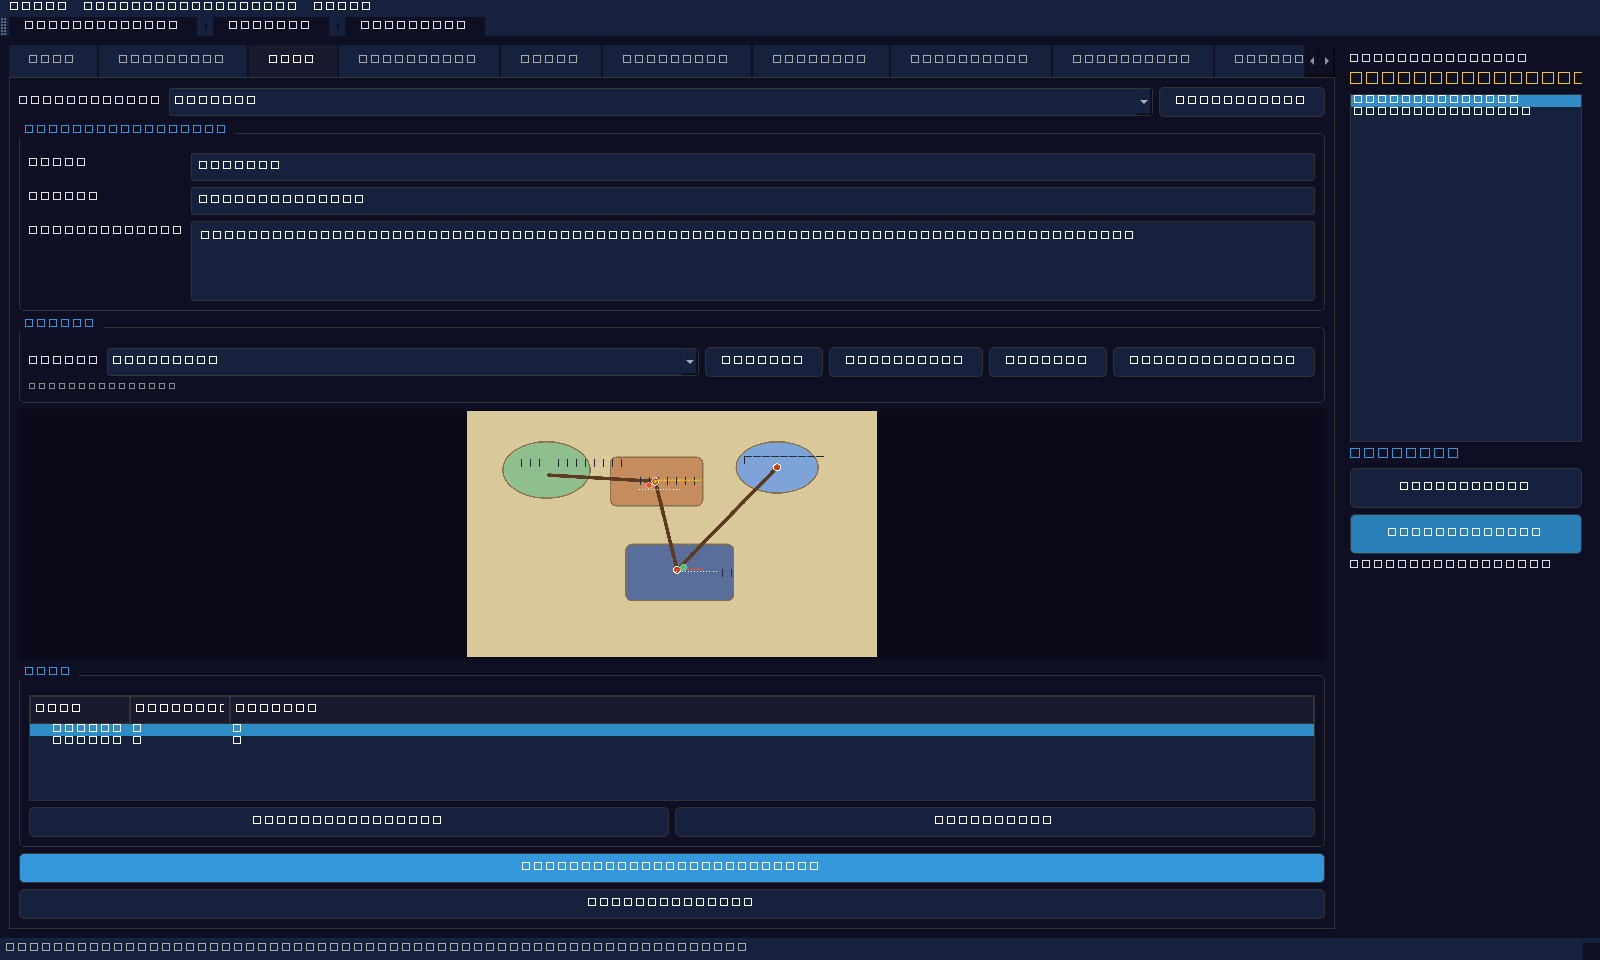
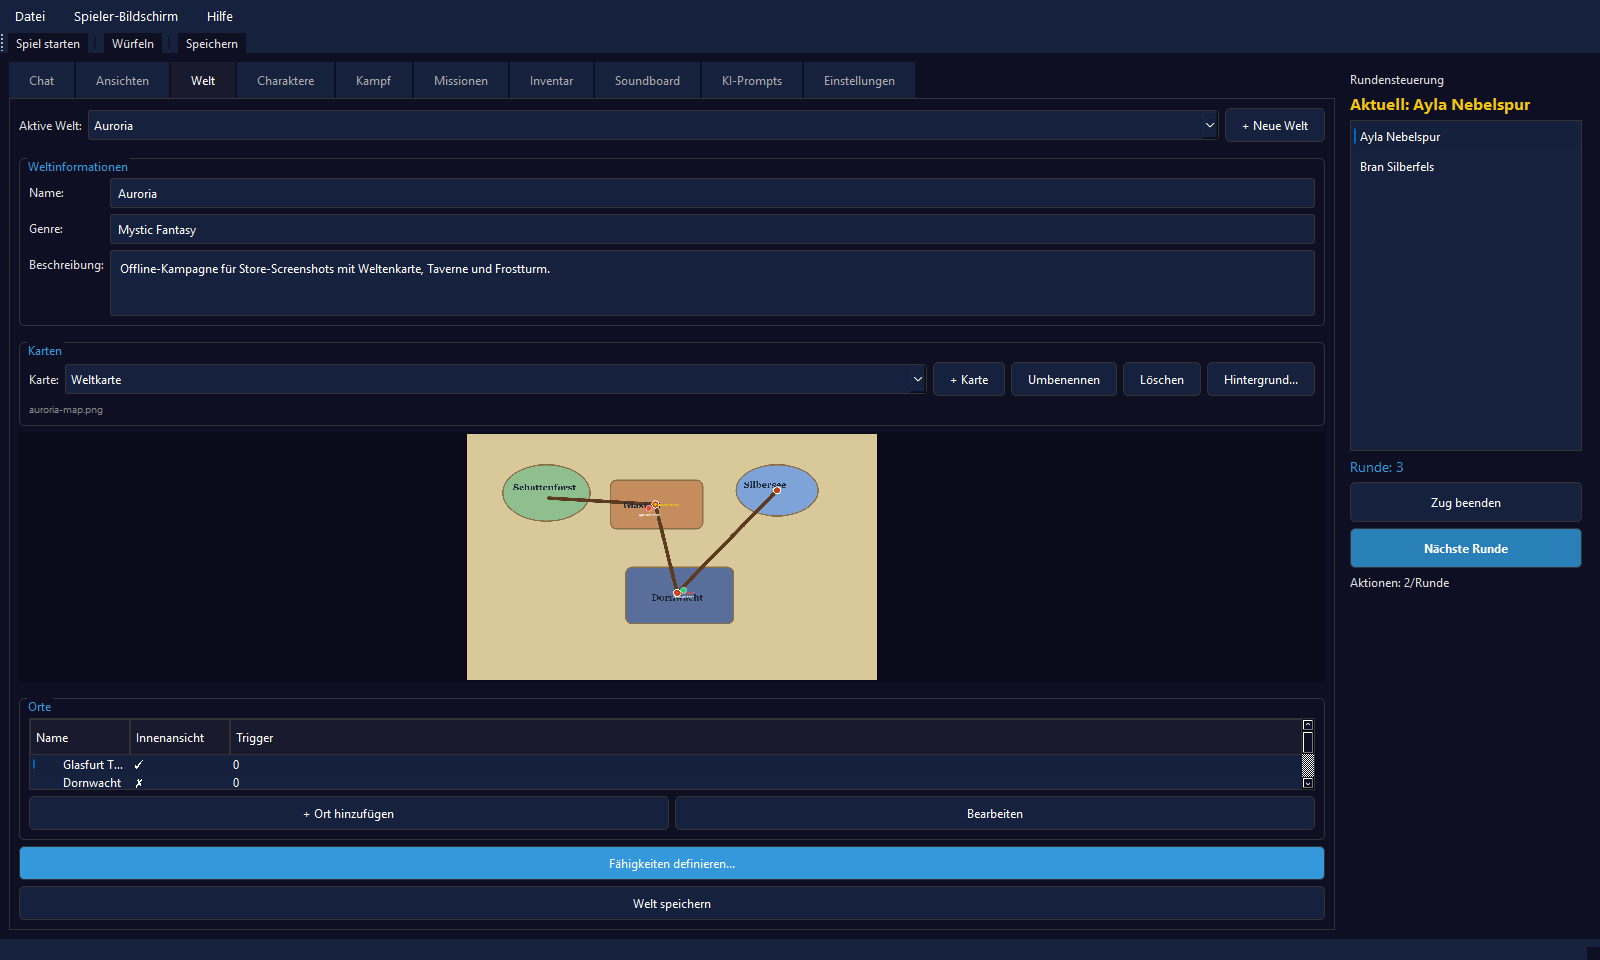
fix: render Store screenshots with native Qt glyphs

diff --git a/generate_store_screenshots.py b/generate_store_screenshots.py
@@ -1,5 +1,6 @@
 from __future__ import annotations
 
+import contextlib
 import importlib
 import json
 import math
@@ -13,7 +14,6 @@ from dataclasses import dataclass
 from pathlib import Path
 from typing import Any
 
-os.environ.setdefault("QT_QPA_PLATFORM", "offscreen")
 os.environ.setdefault("QT_SCALE_FACTOR", "1")
 
 PROJECT_ROOT = Path(__file__).resolve().parent
@@ -21,7 +21,7 @@ if str(PROJECT_ROOT) not in sys.path:
     sys.path.insert(0, str(PROJECT_ROOT))
 
 from PySide6.QtCore import Qt
-from PySide6.QtGui import QColor, QFont, QImage, QPainter, QPen
+from PySide6.QtGui import QColor, QFont, QImage, QPainter, QPen, QPixmap
 from PySide6.QtWidgets import QApplication
 
 
@@ -65,6 +65,53 @@ def _process_events(app: QApplication, duration: float = 0.08) -> None:
     while time.monotonic() < deadline:
         app.processEvents()
         time.sleep(0.005)
+
+
+@contextlib.contextmanager
+def _native_qt_platform():
+    """Use native Qt rendering for Store assets while keeping windows invisible.
+
+    On Windows the offscreen plugin can render every glyph as the same missing
+    glyph box (Tofu). ``Qt.WA_DontShowOnScreen`` keeps the native window out of
+    view without sacrificing its font renderer.
+    """
+    previous = os.environ.get("QT_QPA_PLATFORM")
+    if previous == "offscreen" and QApplication.instance() is None:
+        del os.environ["QT_QPA_PLATFORM"]
+    try:
+        yield
+    finally:
+        if previous is not None:
+            os.environ["QT_QPA_PLATFORM"] = previous
+
+
+def _glyph_rendering_works(app: QApplication) -> bool:
+    """Detect a missing-glyph renderer before writing a Store screenshot set."""
+    font = app.font()
+    probes = ("A", "B", "g", "8", "M")
+
+    def render(char: str) -> bytes:
+        pixmap = QPixmap(48, 48)
+        pixmap.fill(Qt.white)
+        painter = QPainter(pixmap)
+        painter.setFont(font)
+        painter.setPen(Qt.black)
+        painter.drawText(pixmap.rect(), Qt.AlignCenter, char)
+        painter.end()
+        return bytes(pixmap.toImage().constBits())
+
+    rendered = [render(char) for char in probes]
+    blank = render(" ")
+    return len(set(rendered)) >= 3 and sum(image != blank for image in rendered) >= len(probes) - 1
+
+
+def _assert_store_font_rendering(app: QApplication) -> None:
+    if app.platformName() == "offscreen":
+        raise RuntimeError(
+            "Qt läuft unter offscreen; Store-Screenshots würden unlesbare Kästchen enthalten."
+        )
+    if not _glyph_rendering_works(app):
+        raise RuntimeError("Font-Rendering-Selbsttest fehlgeschlagen; Screenshot-Erzeugung abgebrochen.")
 
 
 def _configure_runtime_paths(constants: Any, runtime_root: Path) -> None:
@@ -432,6 +479,10 @@ def _seed_demo_state(app: QApplication, modules: RuntimeModules) -> DemoContext:
 
 
 def _save_widget(widget: Any, target: Path, app: QApplication) -> None:
+    widget.setAttribute(Qt.WA_DontShowOnScreen, True)
+    status_bar = getattr(widget, "statusBar", None)
+    if callable(status_bar):
+        status_bar().clearMessage()
     widget.show()
     widget.raise_()
     widget.activateWindow()
@@ -578,8 +629,10 @@ def generate_store_screenshots(output_dir: str | Path) -> dict[str, Any]:
     output_dir = Path(output_dir)
     output_dir.mkdir(parents=True, exist_ok=True)
 
-    app = QApplication.instance() or QApplication([])
+    with _native_qt_platform():
+        app = QApplication.instance() or QApplication([])
     app.setApplicationName("RPX Pro Store Screenshots")
+    _assert_store_font_rendering(app)
 
     with tempfile.TemporaryDirectory(prefix="rpx-store-shots-") as runtime:
         modules = _load_runtime_modules(Path(runtime))

diff --git a/tests/test_store_screenshots.py b/tests/test_store_screenshots.py
@@ -1,15 +1,36 @@
 import json
+import os
 import tempfile
 import unittest
 from pathlib import Path
 
 from PySide6.QtGui import QImage
+from PySide6.QtWidgets import QApplication
 
-from generate_store_screenshots import SCREENSHOT_FILES, SUMMARY_FILE, generate_store_screenshots
+from generate_store_screenshots import (
+    SCREENSHOT_FILES,
+    SUMMARY_FILE,
+    _assert_store_font_rendering,
+    generate_store_screenshots,
+)
 
 
 class StoreScreenshotGenerationTests(unittest.TestCase):
+    def test_generator_source_uses_native_glyph_rendering(self):
+        source = (Path(__file__).parents[1] / "generate_store_screenshots.py").read_text(encoding="utf-8")
+        self.assertIn("WA_DontShowOnScreen", source)
+        self.assertNotIn('setdefault("QT_QPA_PLATFORM", "offscreen")', source)
+
+    def test_offscreen_qt_is_rejected_before_screenshots_are_written(self):
+        app = QApplication.instance()
+        if app is None or app.platformName() != "offscreen":
+            self.skipTest("kein offscreen-Qt-Kontext")
+        with self.assertRaises(RuntimeError):
+            _assert_store_font_rendering(app)
+
     def test_generator_writes_all_expected_pngs_and_summary(self):
+        if os.environ.get("QT_QPA_PLATFORM") == "offscreen":
+            self.skipTest("native Font-Renderings sind unter offscreen nicht prüfbar")
         with tempfile.TemporaryDirectory(prefix="rpx-store-test-") as tmpdir:
             output_dir = Path(tmpdir)
 

diff --git a/rpx_pro/main_window.py b/rpx_pro/main_window.py
@@ -1145,6 +1145,9 @@ class RPXProMainWindow(QMainWindow):
                 background-color: #16213e;
                 color: #aaa;
             }
+            QLabel {
+                background-color: transparent;
+            }
             QMenuBar {
                 background-color: #16213e;
                 color: #fff;

diff --git a/CHANGELOG.md b/CHANGELOG.md
@@ -6,6 +6,10 @@ Format basiert auf [Keep a Changelog](https://keepachangelog.com/de/1.1.0/).
 ## [Unreleased]
 
 ### Fixed
+- Store-Screenshots verwenden jetzt native Qt-Glyphen mit
+  `Qt.WA_DontShowOnScreen` statt des fehlerhaften offscreen-Renderers. Ein
+  Selbsttest blockiert Tofu-Ausgaben; Statusleisten-Überlagerungen und helle
+  Label-Hintergründe im Capture-Pfad sind beseitigt.
 - Der `source-smoke`-Job installiert auf Linux jetzt die Qt-Systembibliotheken
   (`libegl1`, `libgl1`, `libxkbcommon-x11-0`, `libdbus-1-3`) und läuft mit
   `QT_QPA_PLATFORM=offscreen`. Der PySide6-Import scheiterte dort an

diff --git a/README/screenshots/store/README.md b/README/screenshots/store/README.md
@@ -18,6 +18,11 @@ schreibt folgende Dateien:
 - `ai-prompts.png`
 - `summary.json`
 
+Er rendert mit der nativen Qt-Plattform und `Qt.WA_DontShowOnScreen`: Die
+Fenster bleiben unsichtbar, die Schriftglyphen werden aber vor dem Schreiben
+der Store-Assets geprüft. Bei offscreen-Qt oder einem Tofu-Verdacht bricht der
+Generator ab, statt unlesbare Bilder zu erzeugen.
+
 ## Zweck
 
 Die Bilder decken die Kernflächen für das Store-Listing ab:
